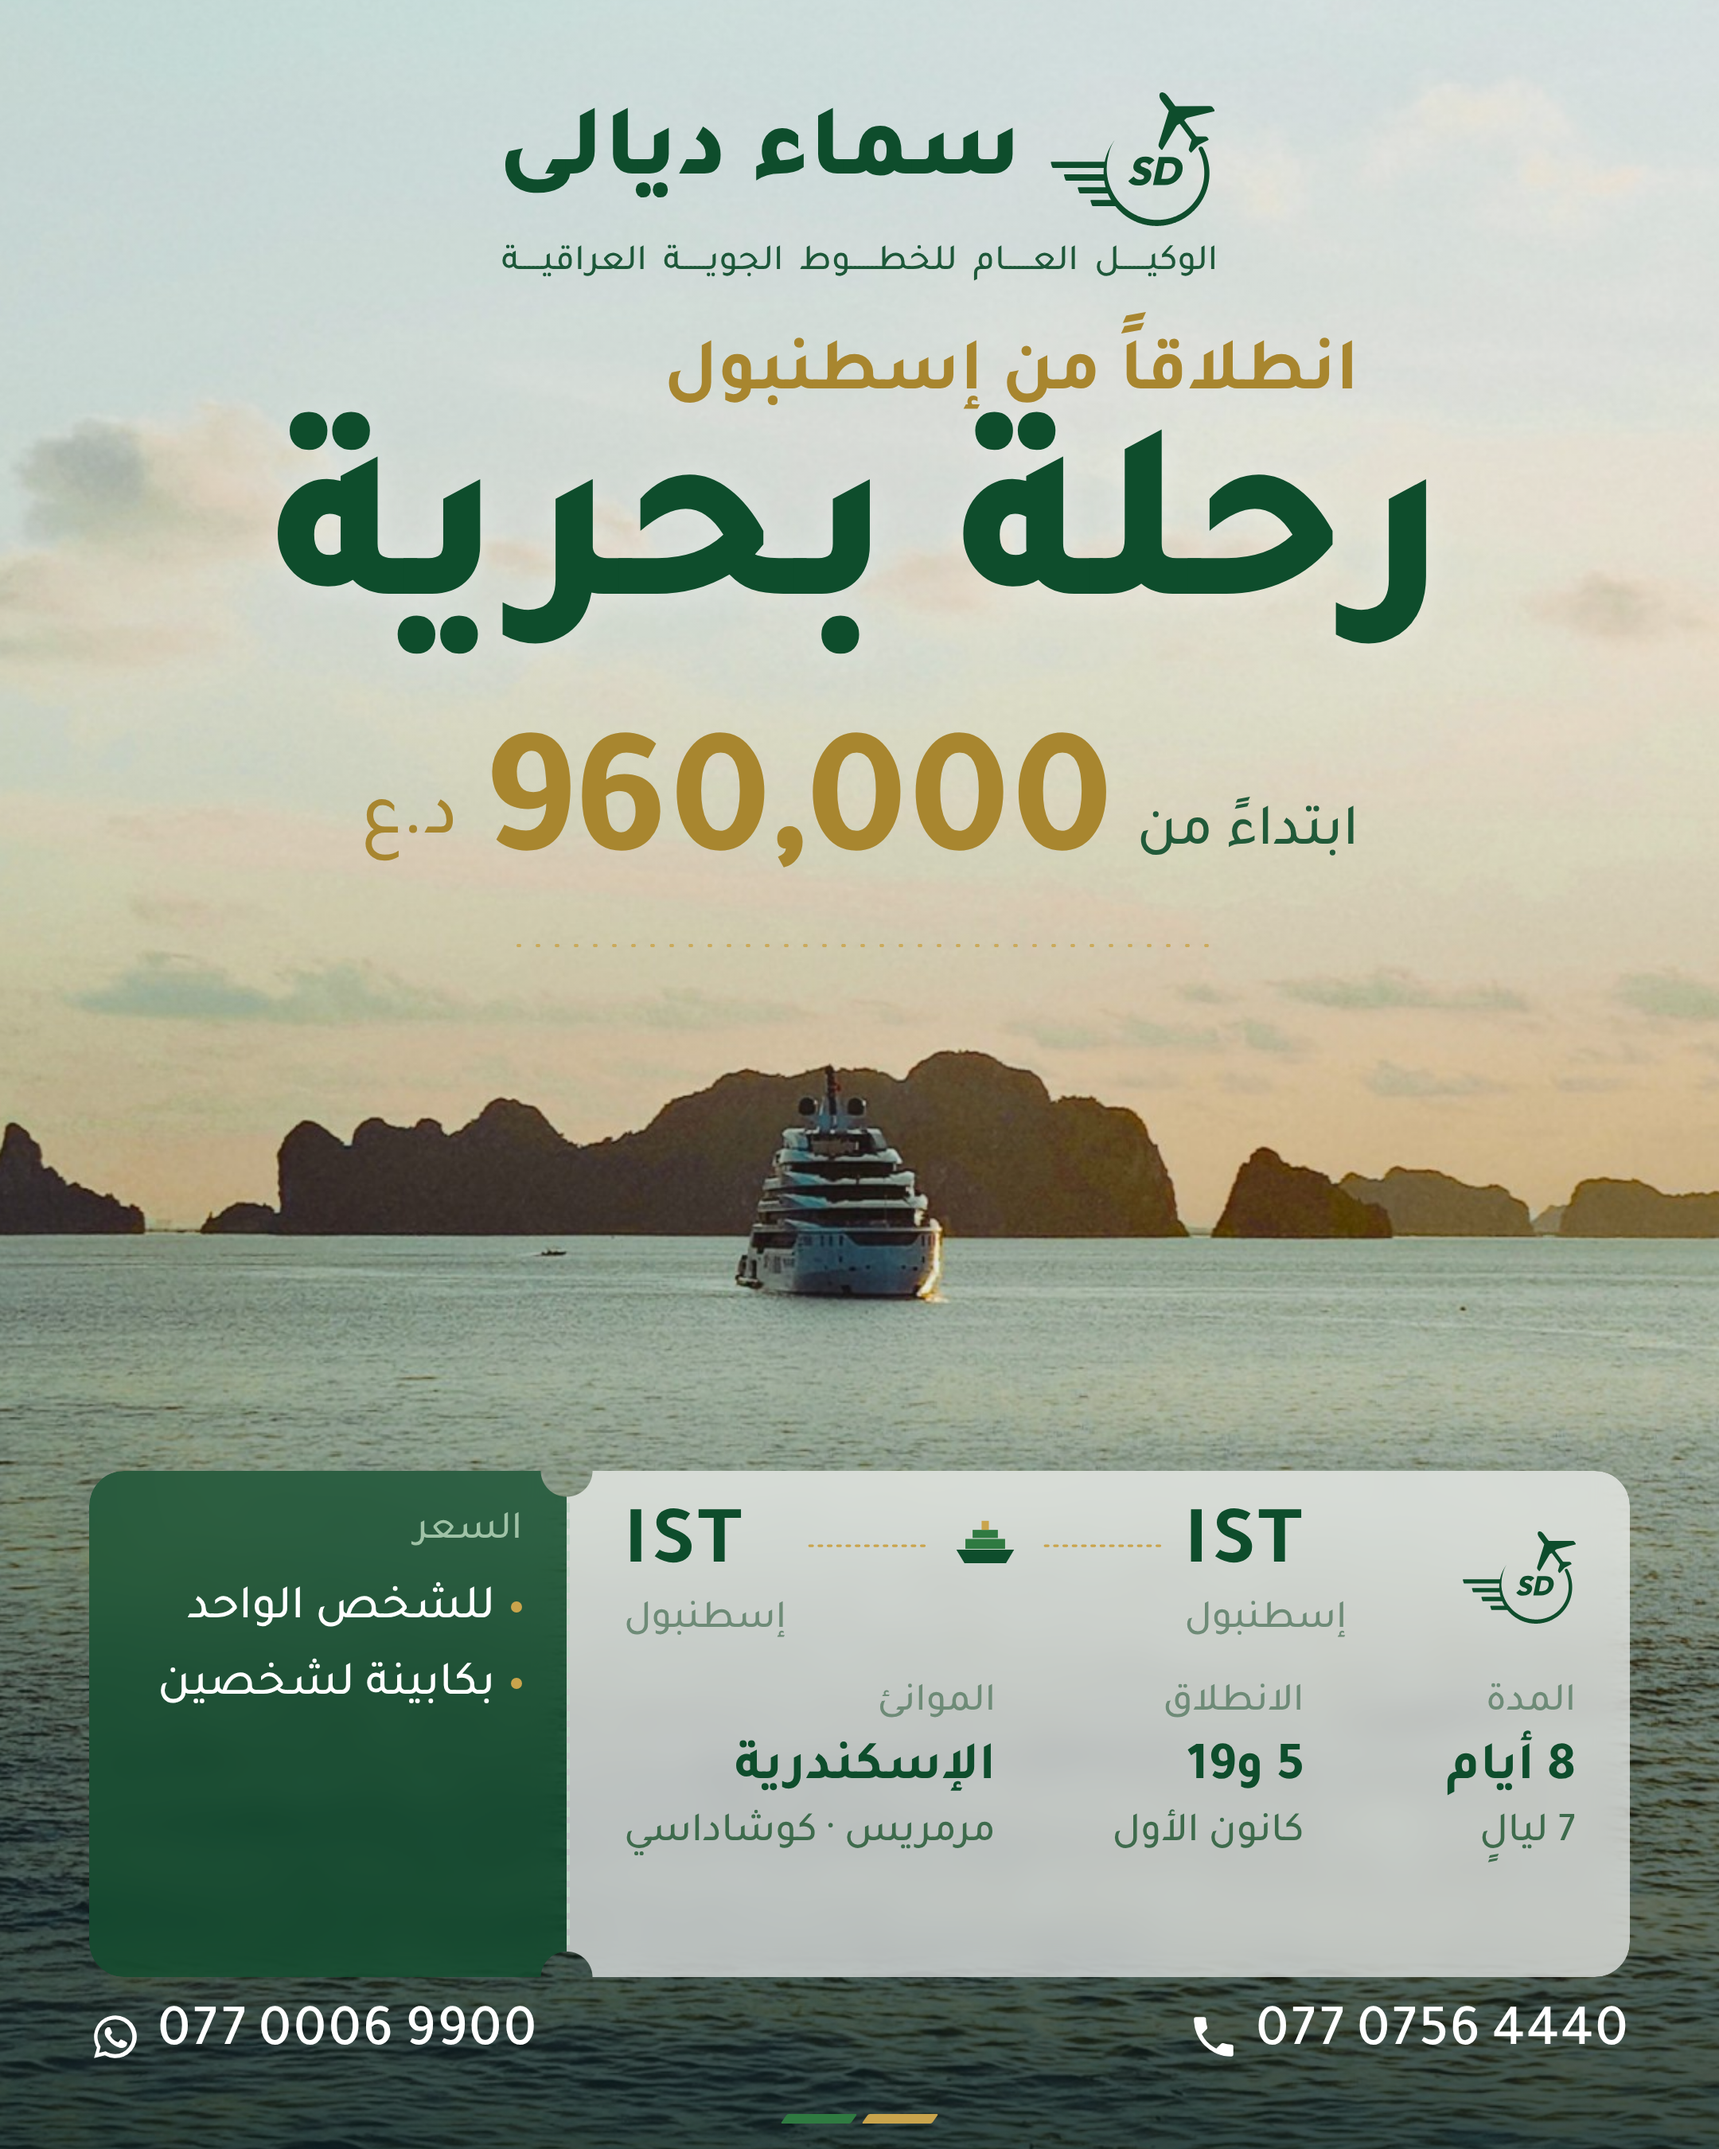
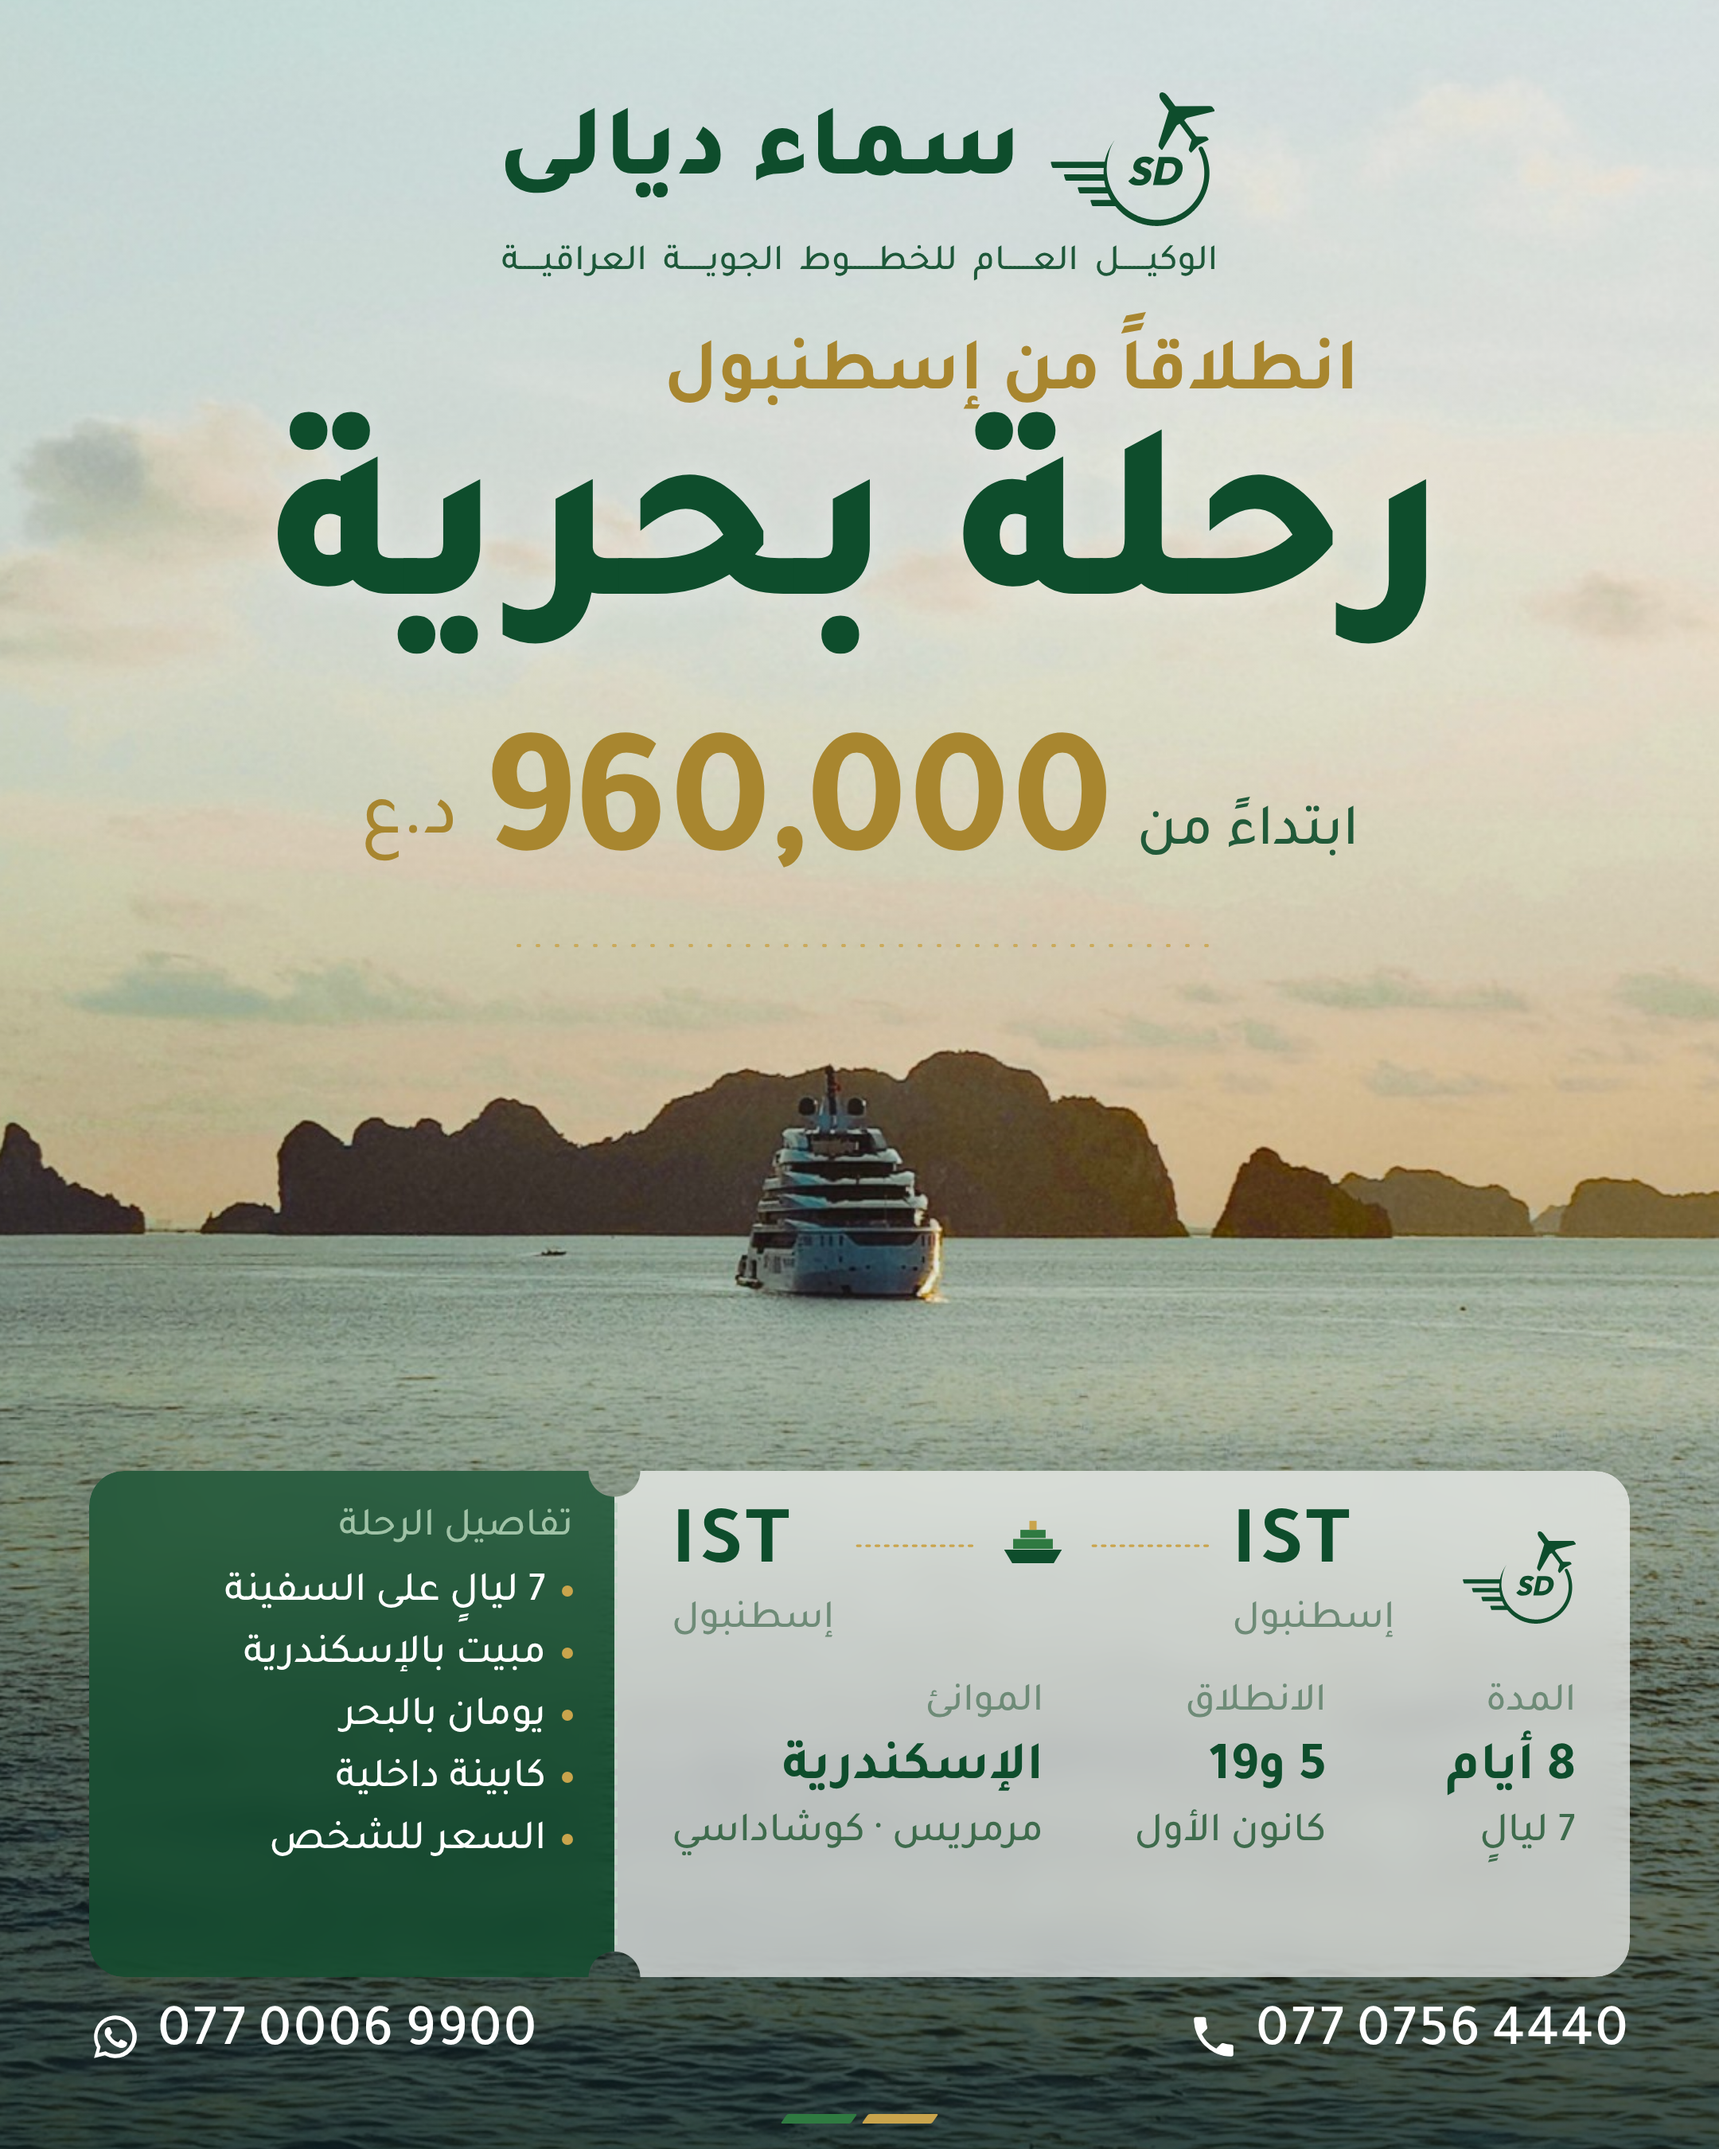
الرحلة البحرية: تفاصيل الرحلة في كعب البطاقة بدل الكابينة لشخصين
Claude-Session: https://claude.ai/code/session_01EprWPUJDuKvYHn821imCPv

Changed region(s): [[0.0931, 0.6844, 0.6204, 0.9333], [0.6514, 0.6844, 0.8065, 0.8711], [0.5583, 0.7156, 0.6204, 0.7467]]

diff --git a/09-التصاميم/رحلة بحرية من إسطنبول - نظيف مع بطاقة صعود/إعلان.html b/09-التصاميم/رحلة بحرية من إسطنبول - نظيف مع بطاقة صعود/إعلان.html
@@ -121,6 +121,9 @@
   .route svg.shp{width:46px !important;height:34px !important;margin-top:4px !important}
   .f .v .sub{font-size:26px !important;margin-top:2px}
   .fields{margin-top:22px !important}
+  .stubx{width:330px !important;padding:22px 26px !important}
+  .stubx .k{margin-bottom:6px !important}
+  .stubx ul{font-size:26px !important;line-height:1.5 !important}
 </style>
 </head>
 <body>
@@ -172,8 +175,8 @@
       </div>
     </div>
     <div class="stubx">
-      <div class="k">السعر</div>
-      <ul><li>للشخص الواحد</li><li>بكابينة لشخصين</li></ul>
+      <div class="k">تفاصيل الرحلة</div>
+      <ul><li>7 ليالٍ على السفينة</li><li>مبيت بالإسكندرية</li><li>يومان بالبحر</li><li>كابينة داخلية</li><li>السعر للشخص</li></ul>
     </div>
   </div>
   <div class="stripes"><i></i><i></i></div>
